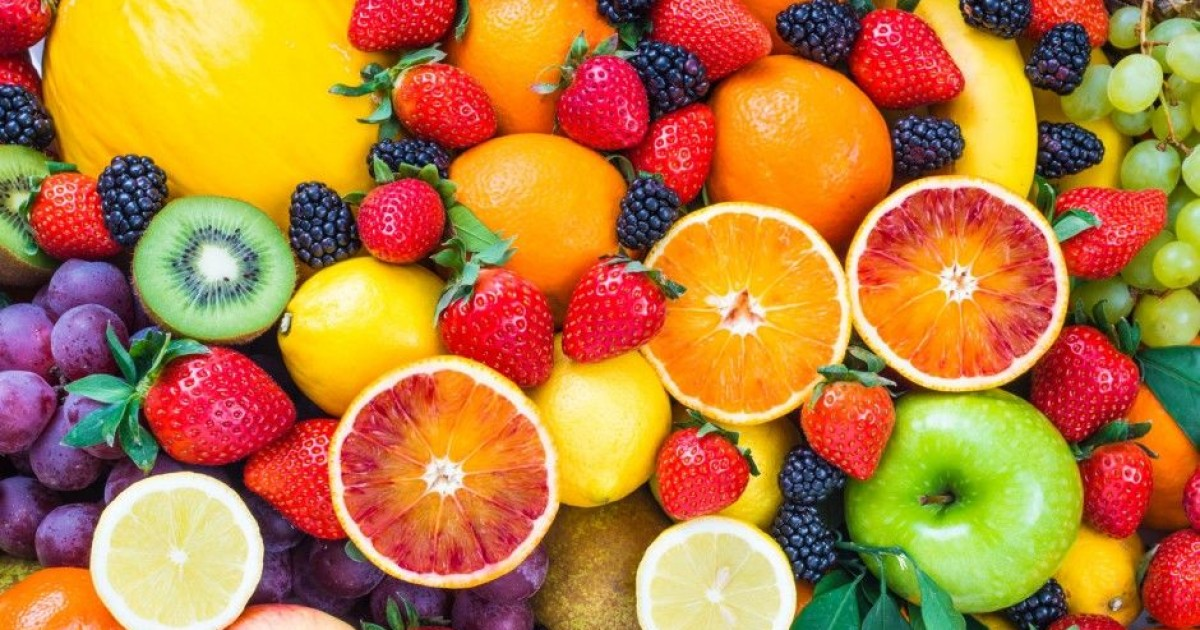
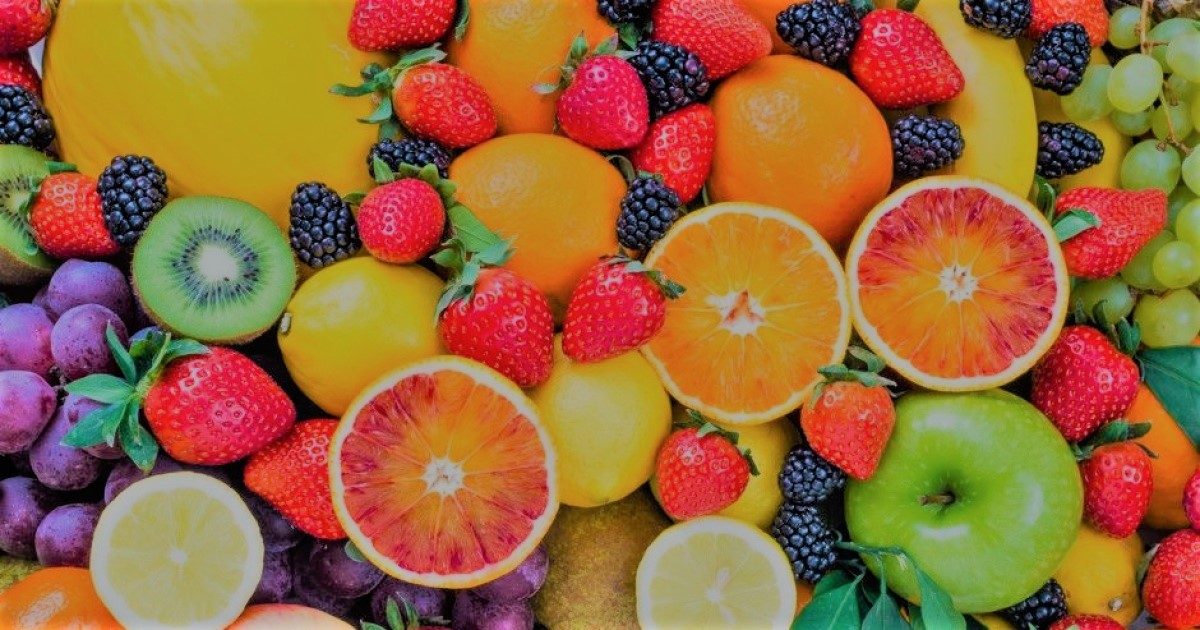
feature_navigationBar Api requests with react-query, join data

diff --git a/src/components/HomePage/HomePage.tsx b/src/components/HomePage/HomePage.tsx
@@ -1,20 +1,46 @@
 import styled from "styled-components";
-import NavigationBar from "../NavigationBar";
+import React, { useEffect, useState } from "react";
 import HeroImage from "../HeroImage";
 import ColumnContainer from "../ColumnsContainer";
 import TextContainer from "../TextContainer";
 import image from "../../images/imageHome.jpg";
 import imagexs from "../../images/imageHome_small.jpg";
 import fruit from "../../images/fruit.jpg";
+import { useFetchData, joinData } from "../../utils/requests";
+import { randomId } from "../../utils/functions";
+import TestimonialProps from "../../types/Testimonial/Testimonial";
 
 export interface HomeProps {
   variant: string;
 }
 
+/**
+ * PERSONALIZED COMPONENT - THIS IS NOT A GENERIC COMPONENT -
+ * This is the HomePage component. You can personalize this code as you prefer.
+ * @param variant mandatory: you can choose if you want light theme or dark theme
+ * @returns
+ */
 export default function Home({ variant }: HomeProps) {
+  //react-query to fetch data
+  const usersQuery = useFetchData("users", "https://jsonplaceholder.typicode.com/users");
+  const postsQuery = useFetchData("posts", "https://jsonplaceholder.typicode.com/posts");
+  //in this state I save the union of usersQuery data and postsQuery data (join by userId)
+  const [dataUsersPosts, setDataUsersPosts] = useState<Array<TestimonialProps>>([]);
+  //take three random post ids
+  let randomPostId = randomId(3, 100);
+  //filter data to take only the three random posts
+  const postToShow: TestimonialProps[] | undefined = dataUsersPosts.filter(
+    (element) => element.id === randomPostId[0] || element.id === randomPostId[1] || element.id === randomPostId[2]
+  );
+  //join by idUser and save on state
+  useEffect(() => {
+    if (usersQuery && postsQuery) {
+      setDataUsersPosts(joinData(usersQuery, postsQuery));
+    }
+  }, [usersQuery, postsQuery]);
+
   return (
     <div>
-      <NavigationBar navigationItems={[<div>About</div>, <div>Services</div>, <div>Projects</div>]} logo={"Sunnyside"} variant={variant} />
       <HeroImage variant={variant} image={image} imagexs={imagexs} textLabelOnImage={"...WE ARE CREATIVES"} />
       <ColumnContainer
         variant={variant}
@@ -22,7 +48,9 @@ export default function Home({ variant }: HomeProps) {
           <ImageSection src={fruit} />,
           <TextContainer
             title={"Transform your brand"}
-            content={"We are a full-service agency specializing in helping brands grow fast. Engage your clients through compelling visuals that do most of the marketing for you."}
+            informations={[
+              "We are a full-service agency specializing in helping brands grow fast. Engage your clients through compelling visuals that do most of the marketing for you.",
+            ]}
             link={"Learn More"}
           />,
         ]}
@@ -32,19 +60,24 @@ export default function Home({ variant }: HomeProps) {
         items={[
           <TextContainer
             title={"Stand out to the right audience"}
-            content={"Using a collaborative formuila of designers, researchers, photographers, videographers and copywriters, we'll build an extend your brand in digital places."}
+            informations={[
+              "Using a collaborative formuila of designers, researchers, photographers, videographers and copywriters, we'll build an extend your brand in digital places.",
+            ]}
             link={"Learn More"}
           />,
 
           <ImageSection src={fruit} />,
         ]}
       />
+      <ColumnContainer
+        variant={variant}
+        items={postToShow.map((item: TestimonialProps) => {
+          return <TextContainer key={item.id} title={item.title} informations={[item.user, item.post]} />;
+        })}
+      />
     </div>
   );
 }
-
 export const ImageSection = styled.img`
   width: 100%;
 `;
-
-export const ItemSection = styled.img``;

diff --git a/src/components/TextContainer/TextContainer.tsx b/src/components/TextContainer/TextContainer.tsx
@@ -2,17 +2,26 @@ import styled from "styled-components";
 
 export interface TextContainerProps {
   title?: string;
-  subtitle?: string;
-  content?: string;
+  informations?: string[];
   link?: string;
 }
+/**
+ * The component manages all text boxes
+ * @param title optional
+ * @param informations optional: in this array you can put all the informations you need. Every array element is a <p></p> tag
+ * @param link optional: if you need a link to another page.
+ * @returns
+ */
 
-export default function TextContainer({ title, subtitle, content, link }: TextContainerProps) {
+export default function TextContainer({ title, informations, link }: TextContainerProps) {
   return (
     <Container>
       {title ? <h2>{title}</h2> : undefined}
-      {subtitle ? <h3>{subtitle}</h3> : undefined}
-      {content ? <p>{content}</p> : undefined}
+      {informations
+        ? informations.map((label: string, index: number) => {
+            return <p key={index}>{label}</p>;
+          })
+        : undefined}
       {link ? <LinkText>{link}</LinkText> : undefined}
     </Container>
   );

diff --git a/src/utils/requests.tsx b/src/utils/requests.tsx
@@ -1,0 +1,30 @@
+import { useQuery } from "react-query";
+import TestimonialProps from "../types/Testimonial/Testimonial";
+
+//personalized hook that allows you to fetch data through react-query
+export function useFetchData(name: string, url: string) {
+  const query = useQuery(name, async () => {
+    const response = await fetch(url);
+    return await response.json();
+  });
+  return query.data;
+}
+
+//if you need to merge two responses
+//todo: può essere resa ancora più generica
+export function joinData(responseOne: Object, responseTwo: Object) {
+  let merged: TestimonialProps[] = [];
+  for (const [key, itemTwo] of Object.entries(responseTwo)) {
+    for (const [key, itemOne] of Object.entries(responseOne)) {
+      if (itemOne.id === itemTwo.userId) {
+        merged.push({
+          user: itemOne.name,
+          id: itemTwo.id,
+          post: itemTwo.body,
+          title: itemTwo.title,
+        });
+      }
+    }
+  }
+  return merged;
+}

diff --git a/src/App.tsx b/src/App.tsx
@@ -1,15 +1,21 @@
 import "./App.css";
 import Theme from "./components/Theme";
 import styled from "styled-components";
-
+import { QueryClient, QueryClientProvider, useQuery } from "react-query";
 import HomePage from "./components/HomePage";
+import NavigationBar from "./components/NavigationBar";
+const queryClient = new QueryClient();
 function App() {
   const variant = "light";
   return (
     <Theme>
-      <SuperContainer variant={variant}>
-        <HomePage variant={variant} />
-      </SuperContainer>
+      <QueryClientProvider client={queryClient}>
+        <SuperContainer variant={variant}>
+          <NavigationBar navigationItems={[<div>About</div>, <div>Services</div>, <div>Projects</div>]} logo={"Sunnyside"} variant={variant} />
+
+          <HomePage variant={variant} />
+        </SuperContainer>
+      </QueryClientProvider>
     </Theme>
   );
 }

diff --git a/src/components/ColumnsContainer/ColumnsContainer.tsx b/src/components/ColumnsContainer/ColumnsContainer.tsx
@@ -1,12 +1,18 @@
 import styled from "styled-components";
 export interface ColumnContainerProps {
-  items: JSX.Element[];
+  items?: JSX.Element[] | undefined;
   variant: string;
 }
+/**
+ * The component manages a row box in the page. It divided the row into columns. Every element of items represents a column.
+ * @param items
+ * @param variant
+ * @returns
+ */
 export default function ColumnContainer({ items, variant }: ColumnContainerProps) {
   return (
     <ItemsContainer>
-      {items.map((item: JSX.Element, index: number) => {
+      {items?.map((item: JSX.Element, index: number) => {
         return <Item key={index}>{item}</Item>;
       })}
     </ItemsContainer>
@@ -21,5 +27,4 @@ export const ItemsContainer = styled.div`
 export const Item = styled.div`
   width: 100%;
   align-self: center;
-
 `;

diff --git a/src/components/Theme/Theme.tsx b/src/components/Theme/Theme.tsx
@@ -11,8 +11,8 @@ export const theme = {
     light: {
       backgroundPage: "white",
       colorPage: "black",
-      backgroundColor: "rgba(0,0,0,0.30)",
-      backgroundOnHoverItem: "rgba(0,0,0,0.10)",
+      backgroundColor: "rgba(0,0,0,0.60)",
+      backgroundOnHoverItem: "rgba(255,255,255,0.33)",
       boxShadowNavBar: "0 8px 17px rgba(0, 0, 0, 0.45)",
       color: "whitesmoke",
     },

diff --git a/src/utils/functions.tsx b/src/utils/functions.tsx
@@ -1,0 +1,9 @@
+//calculate a randomId
+export function randomId(n: number, totalNumbers: number) {
+  let i: number = 0;
+  let ids = [];
+  for (i = 0; i < n; i++) {
+    ids.push(Math.round(Math.random() * totalNumbers + 1));
+  }
+  return ids;
+}

diff --git a/src/types/Testimonial/Testimonial.tsx b/src/types/Testimonial/Testimonial.tsx
@@ -1,0 +1,7 @@
+//used only for type -- type of comments section
+export default interface TestimonialProps {
+  user: string;
+  id?: number;
+  post: string;
+  title: string;
+}
